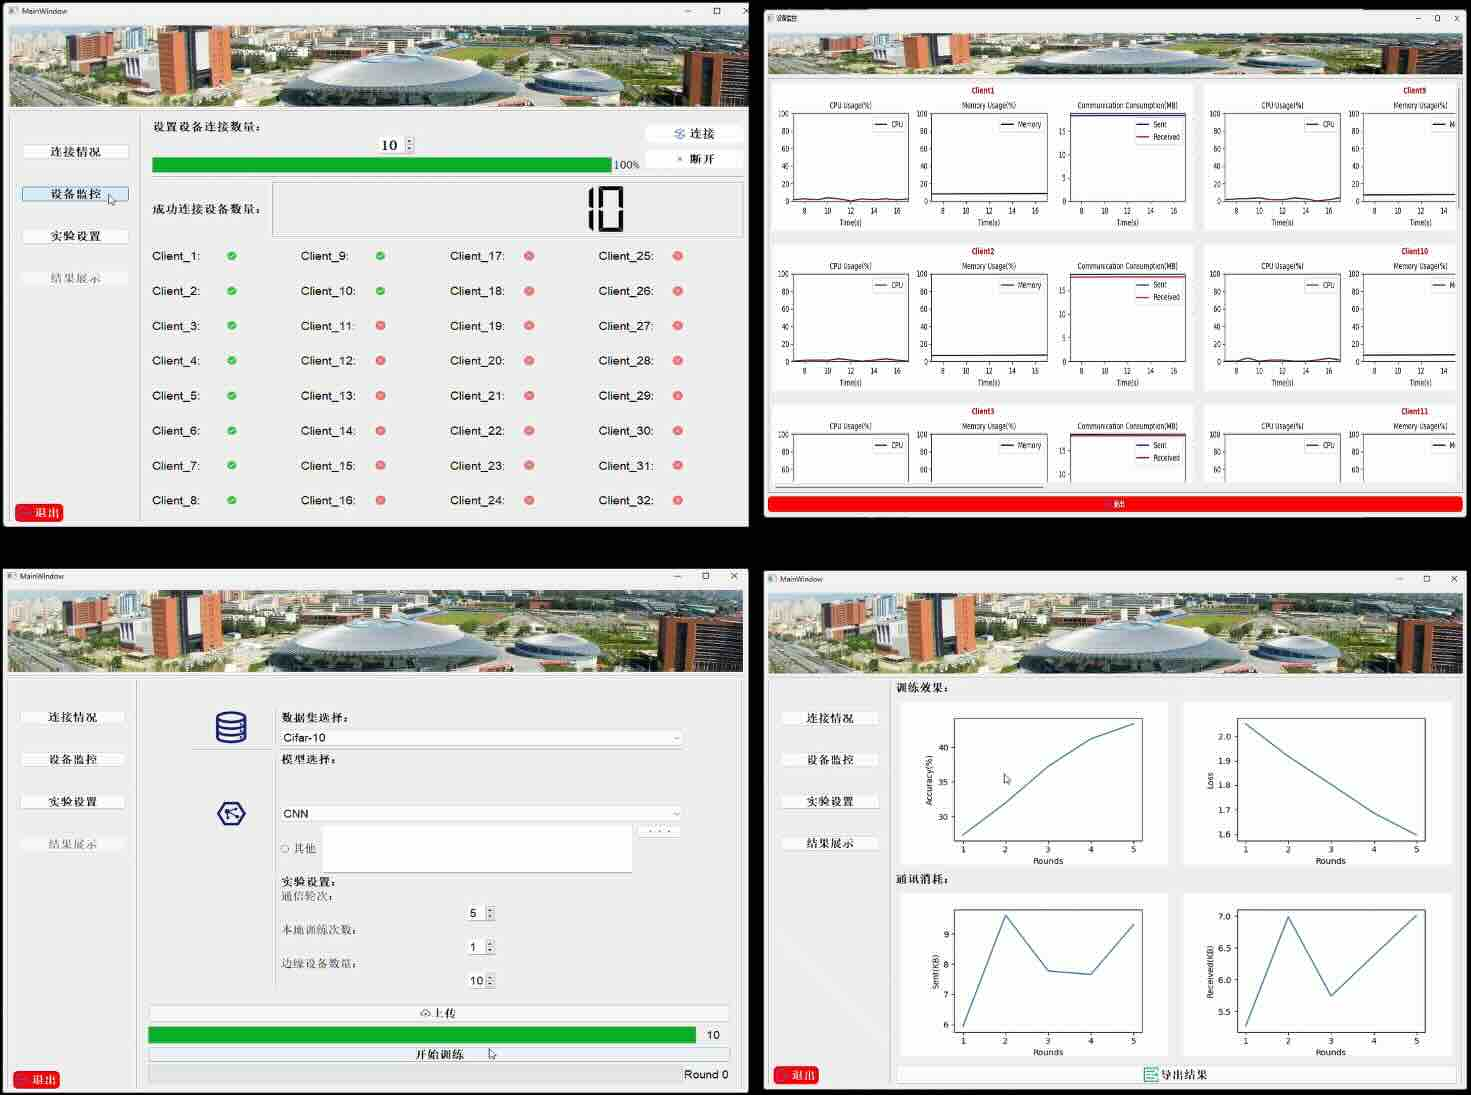
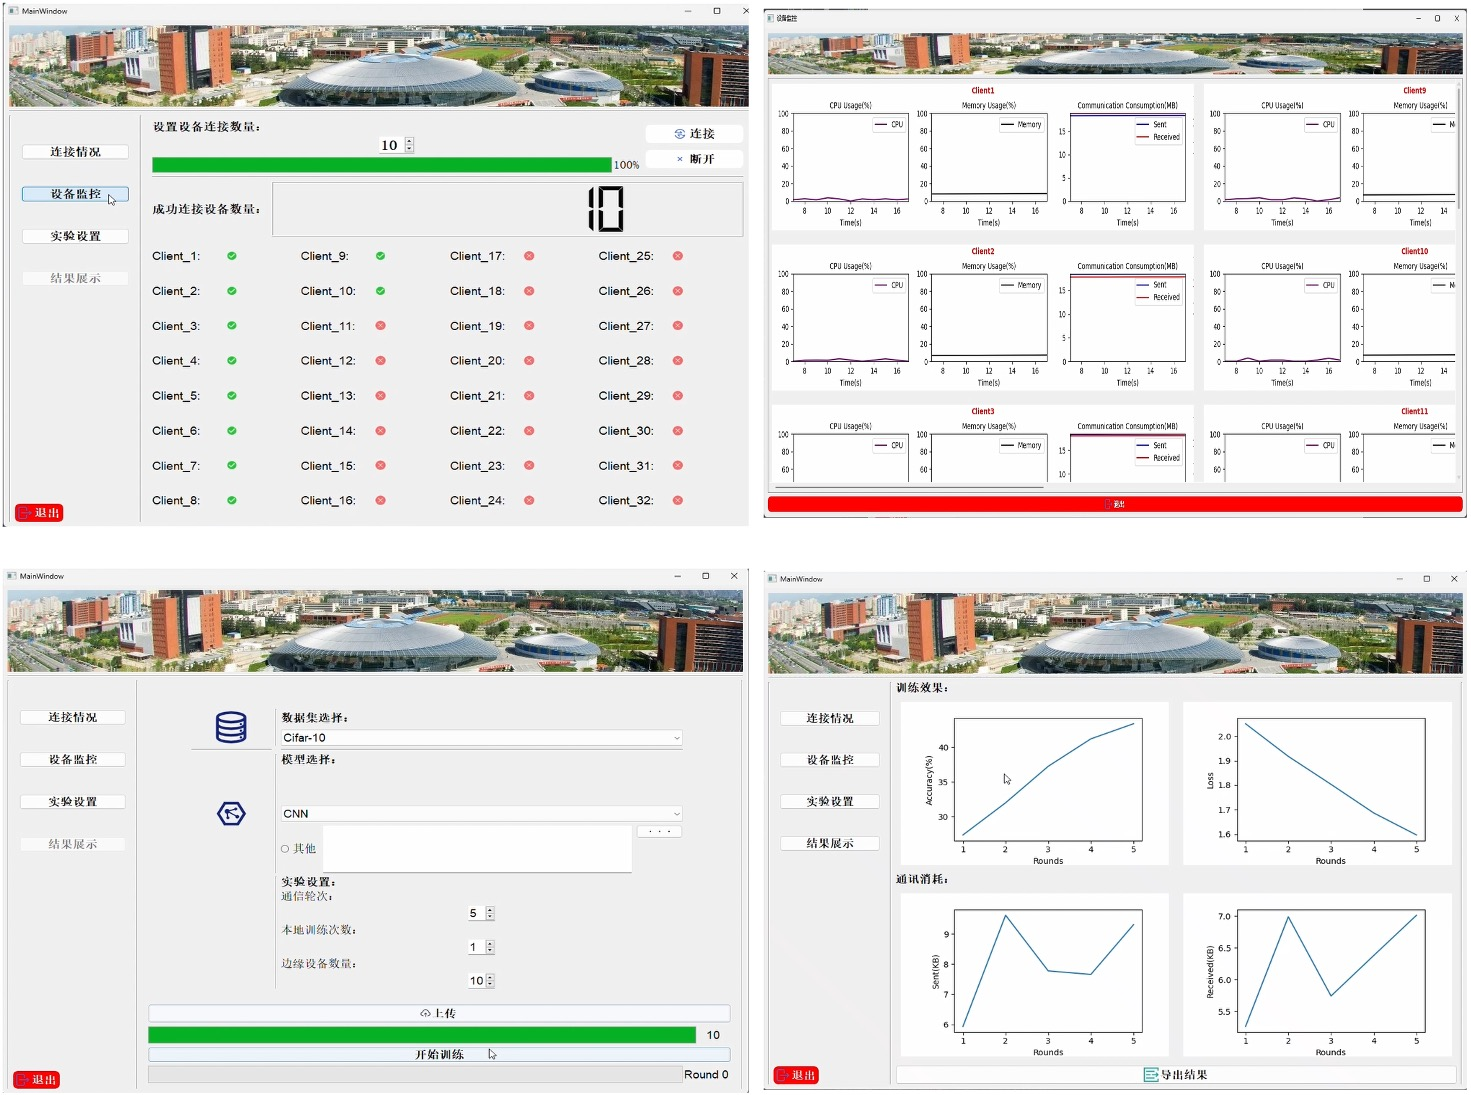
compression

diff --git a/experiences.html b/experiences.html
@@ -66,7 +66,7 @@
                 <span>♢ 李方昱, <b>林军诺</b>, 杜永萍,韩红桂, 2023,一种分布式集群设备状态监控及应用一体化平台 V1.0, 登记号:2023SR0943525.</span>
                 <div class="lognet_list">
                     <img src="./images/platform.jpg" alt="" style="margin: 0 auto;" />
-                    <img src="./images/soft.png" alt="" style="margin: 0 auto;" />
+                    <img src="./images/soft.jpg" alt="" style="margin: 0 auto;" />
                 </div>
             </div>
 
